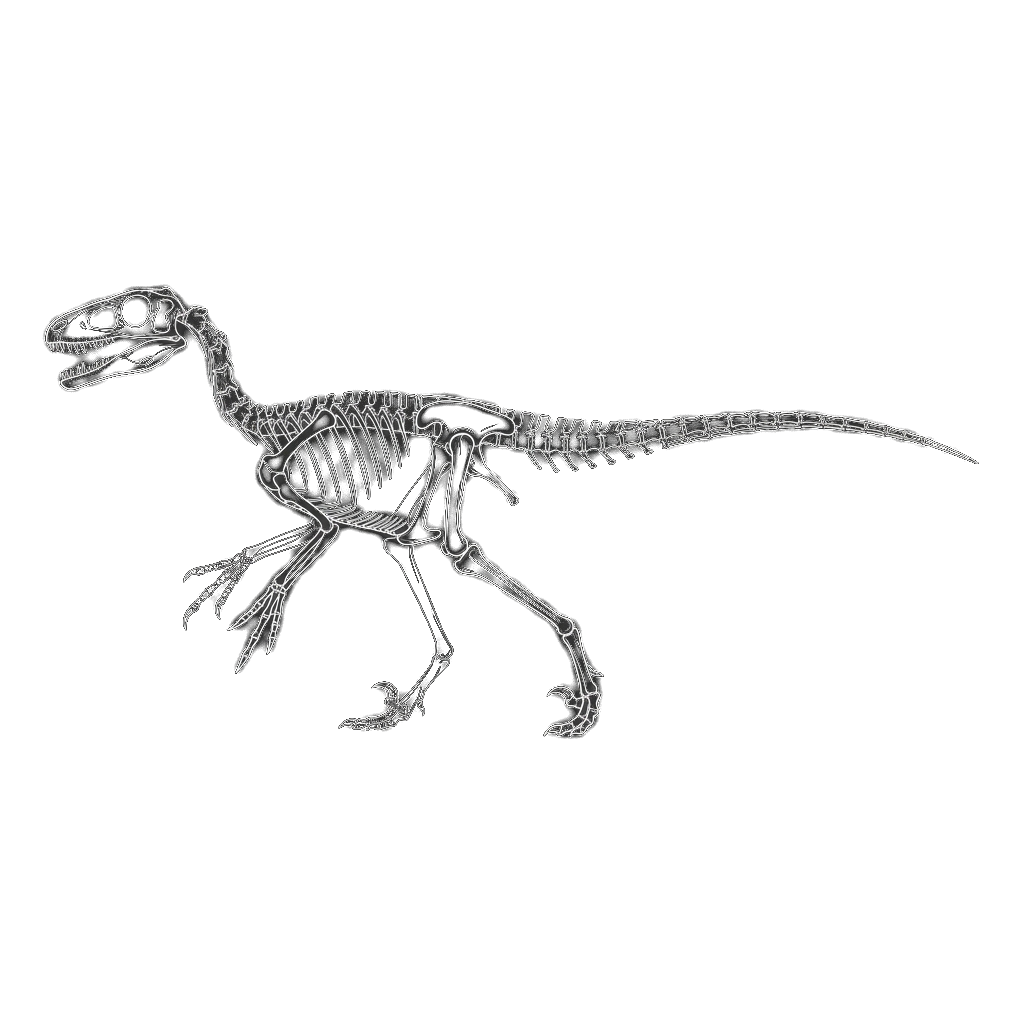
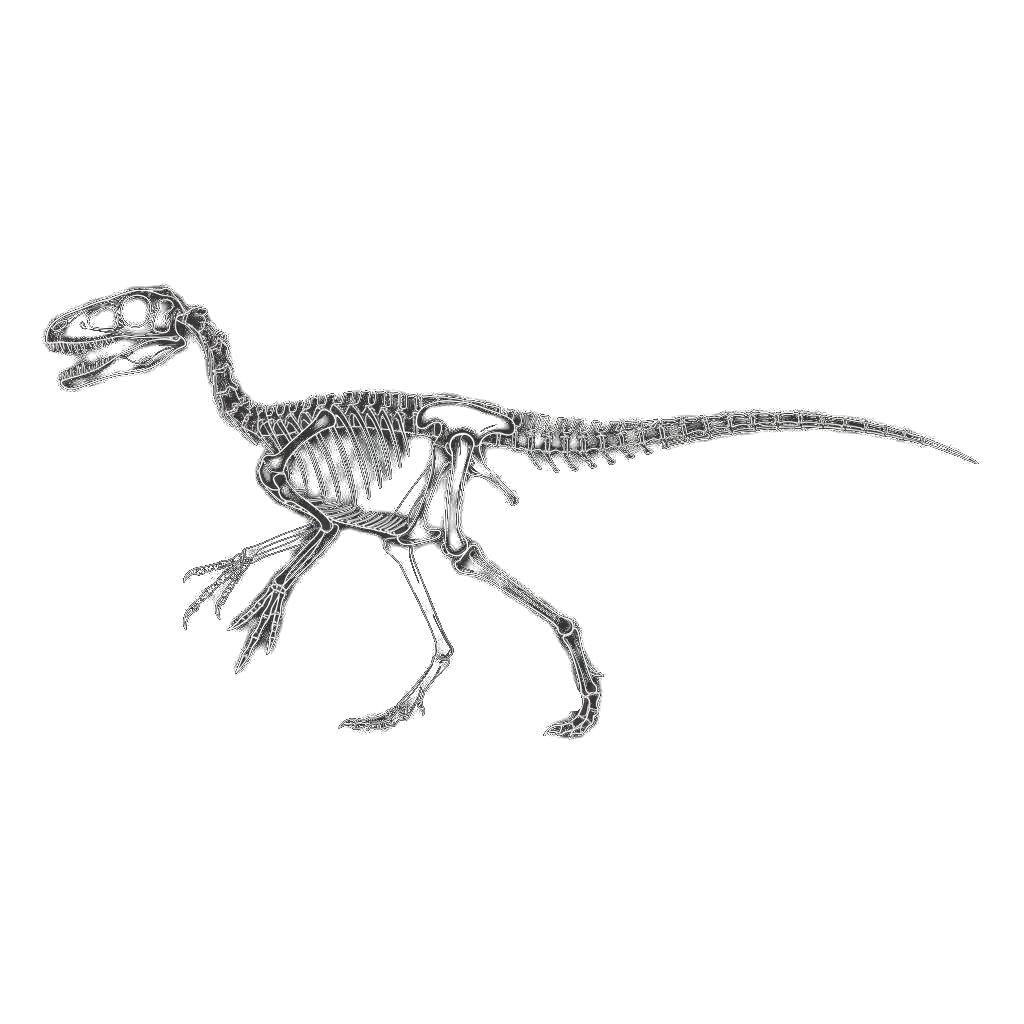
fix: update troodon & mei main visuals, ornitholestes & coelurus cyber skeletons, and scipionyx juvenile note

diff --git a/src/content/dinosaurs/scipionyx.md b/src/content/dinosaurs/scipionyx.md
@@ -11,14 +11,14 @@ length: "0.5m"
 weight: "1kg"
 image: "images/scipionyx.webp"
 group: "獣脚類"
-description: "イタリアで初めて発見された恐竜であり、「チッチョ（Ciro）」の愛称で知られるコンプソグナトゥス科の幼体標本。気管・食道・肝臓・腸（結腸）・筋肉繊維などの内臓軟組織が立体的に鉱物化して保存された、古生物学史上最も奇跡的な化石のひとつ。"
+description: "イタリアで初めて発見された恐竜であり、「チッチョ（Ciro）」の愛称で知られるコンプソグナトゥス科の恐竜。現在までに成体の化石は発見されておらず、記載されている全長約0.5m・体高約0.2mは唯一の標本である幼体（赤ちゃん）の実寸値である。気管・肝臓・腸・筋肉などの内臓軟組織が奇跡的に鉱物化して保存された。"
 bioTraits:
   - trait: "奇跡の内臓化石"
     value: "腸・肝臓・気管・筋肉の立体保存"
     detail: "酸素のないラグーンの底に沈んだことで、本来なら腐敗して消える内臓器官や筋肉繊維が細胞の細部まで鉱物化して残された"
-  - trait: "イタリア初の恐竜"
-    value: "孵化後間もない幼体「チッチョ」"
-    detail: "成体では全長2.0mに達したと推定されるが、発見された唯一の標本は孵化後わずか数日〜数週間の全長約0.5mの赤ちゃん恐竜だった"
+  - trait: "幼体標本のみの発見"
+    value: "成体は未発見（全長0.5mは幼体の実寸）"
+    detail: "現在見つかっている化石は孵化後間もない幼体「チッチョ（全長約0.5m・体高約0.2m）」1体のみで、成体化石は未発見である（成体は全長約2.0mと推定）"
 cyberMetadata:
   bottomGap: 311
   realHeight: 0.2
@@ -38,13 +38,13 @@ cyberMetadata:
 
 1998年3月、ダル・サッソ博士とマルコ・シニョーレ博士によって科学誌『Nature』の表紙とともに発表され、イタリアの国民的愛称としてナポリっ子を意味する「チッチョ（Ciro）」というニックネームが付けられました。学名の「スキピオニクス」は、この地層を最初に研究した地質学者スキピオーネ・ブレイスラークと、古代ローマの英雄スキピオ・アフリカヌスにちなんだ「スキピオの爪」を意味し、種小名の *samniticus* は発見地の古名「サムニウム地方」に由来します。
 
-### 実寸サイズと幼体標本のスケール：標本実寸で全長約0.5メートル・全高約0.2メートルの赤ちゃん恐竜
+### 実寸サイズと幼体標本のスケール：成体化石は未発見・全長約0.5メートルは幼体の実寸値
 
-スキピオニクスの唯一の標本「チッチョ」は、頭骨の骨がまだ完全に癒合しておらず、額に赤ちゃん特有の隙間（泉門）が残っていたことや、異常なほど大きな眼窩と短い鼻先から、孵化してからわずか数日から数週間しか経っていない「生まれたての幼体（ハッチリング）」であることが判明しています。
+スキピオニクスについて最も重要な点は、**現在までに「成体（大人）の化石」は1体も発見されておらず、本図鑑に記載している全長約0.5メートル・全高約0.2メートルという数値は、唯一発見された「幼体標本（チッチョ）」の実寸値である**ということです。頭骨の骨がまだ癒合しておらず額に隙間（泉門）が残っていたことや、大きな眼窩と短い鼻先から、この標本は孵化後わずか数日から数週間の「生まれたての幼体（ハッチリング）」であることが判明しています。
 
-この幼体標本の実寸サイズ（尾の先端の欠損部を補完した全長）は、全長約0.5メートル（骨格の保存部分は約24センチメートル、尾端まで含めて約50センチメートル）、水平姿勢における腰高での全高約0.2メートル、推定体重約1キログラム未満（数百グラム〜約1キログラム）です。なお、近縁のコンプソグナトゥス科との比較から、もしこの個体が無事に成長して「成体（大人）」になっていれば、全長約2.0メートルに達していたと推定されています。
+この幼体標本の実寸サイズ（尾端の欠損部を補完した値）が、全長約0.5メートル（骨格保存部は約24センチメートル）、水平姿勢での全高約0.2メートル、推定体重約1キログラム未満（数百グラム〜約1キログラム）です。成体化石は未発見ですが、近縁種との比較から成体になれば全長約2.0メートルに達したと推定されています。
 
-現代の成人男性（身長約1.7メートル）と幼体標本「チッチョ」を並べた場合、その背中の高さ（全高約0.2メートル）は大人の足首からくるぶしの上にようやく届く程度で、全長約0.5メートル、体重約1キログラムという体格は、現代のハトや生まれたての子猫ほどの文字通り「両手に乗るサイズ」です。
+現代の成人男性（身長約1.7メートル）と幼体標本「チッチョ」を並べた場合、その背中の高さ（幼体時の全高約0.2メートル）は大人のくるぶしの上にようやく届く程度で、全長約0.5メートル、体重約1キログラムという体格は、現代のハトや子猫ほどの文字通り「両手に乗るサイズ」です。
 
 ### 気管・肝臓・腸のシワまで見える奇跡の「内臓化石」とワニ型横隔膜呼吸システムの解明
 

diff --git a/src/content/dinosaurs/mei.md b/src/content/dinosaurs/mei.md
@@ -52,4 +52,4 @@ cyberMetadata:
 
 なぜメイは死に際に苦しんで暴れた形跡もなく、穏やかに眠ったままの姿で化石になったのでしょうか。その秘密は、化石が産出した義県層の「陸家屯部層」の特殊な成り立ちにあります。当時の遼寧省は活発な火山地帯であり、メイは地面に掘った浅い巣穴や茂みの中で丸くなって眠っている最中に、噴火に伴う火山灰の急速な降下や火砕流、あるいは火口から流れ出た二酸化炭素や有毒ガスによって、眠ったまま一瞬で窒息・埋没したと考えられています。この現象から、陸家屯は古代ローマの悲劇になぞらえて「白亜紀のポンペイ」と呼ばれています。
 
-メイの頭骨は非常に小さく、吻部（鼻先）が短くて眼窩が極端に大きいという特徴を持っていました。上顎と下顎には小さな歯が隙間なく密生しており、薄暗い針葉樹やイチョウの森の林床で、その大きな目を活かして昆虫やクモ、ミミズ、小さなトカゲなどを素早く捕食する「肉食・昆虫食」のハンターとして暮らしていました。後肢の第2趾には、のちの大型トロオドン科へと受け継がれる小さな鉤爪（シックル・クロー）もすでに備わっていました。
+メイの頭骨は非常に小さく、吻部（鼻先）が短くて眼窩が極端に大きいという特徴を持っていました。上顎と下顎には小さな歯が隙間なく密生しており、薄暗い針葉樹やイチョウの森の林床で、その大きな目を活かして昆虫やクモ、ミミズ、小さなトカゲなどを素早く捕食する「肉食・昆虫食」のハンターとして暮らしていました。また、大きな鼻孔と鳥類のように発達した叉骨（ウィッシュボーン）を備え、原始的なトロオドン科がいかにして鳥類に近い身体構造を獲得していったかを示す重要な進化の証人となっています。

diff --git a/src/content/dinosaurs/ornitholestes.md b/src/content/dinosaurs/ornitholestes.md
@@ -20,10 +20,10 @@ bioTraits:
     value: "長年描かれた「鼻の上の角」の否定"
     detail: "20世紀の復元図では鼻先に小さな角（トサカ）がある姿で有名だったが、近年の再調査で化石の破損・変形だったと判明した"
 cyberMetadata:
-  bottomGap: 285
+  bottomGap: 284
   realHeight: 0.7
   realLength: 2.0
-  contentHeightPx: 454
+  contentHeightPx: 457
   sourceRes: 1024
   dinoLeft: "10%"
   refRight: "15%"

diff --git a/src/content/dinosaurs/coelurus.md b/src/content/dinosaurs/coelurus.md
@@ -20,7 +20,7 @@ bioTraits:
     value: "細長い首と前肢・バネのような後肢"
     detail: "同時代のオルニトレステスよりも首と胴体、足の甲が長く伸び、軽量な骨格を活かして平原や森林を高速で駆け回った"
 cyberMetadata:
-  bottomGap: 330
+  bottomGap: 329
   realHeight: 0.8
   realLength: 2.4
   contentHeightPx: 343
